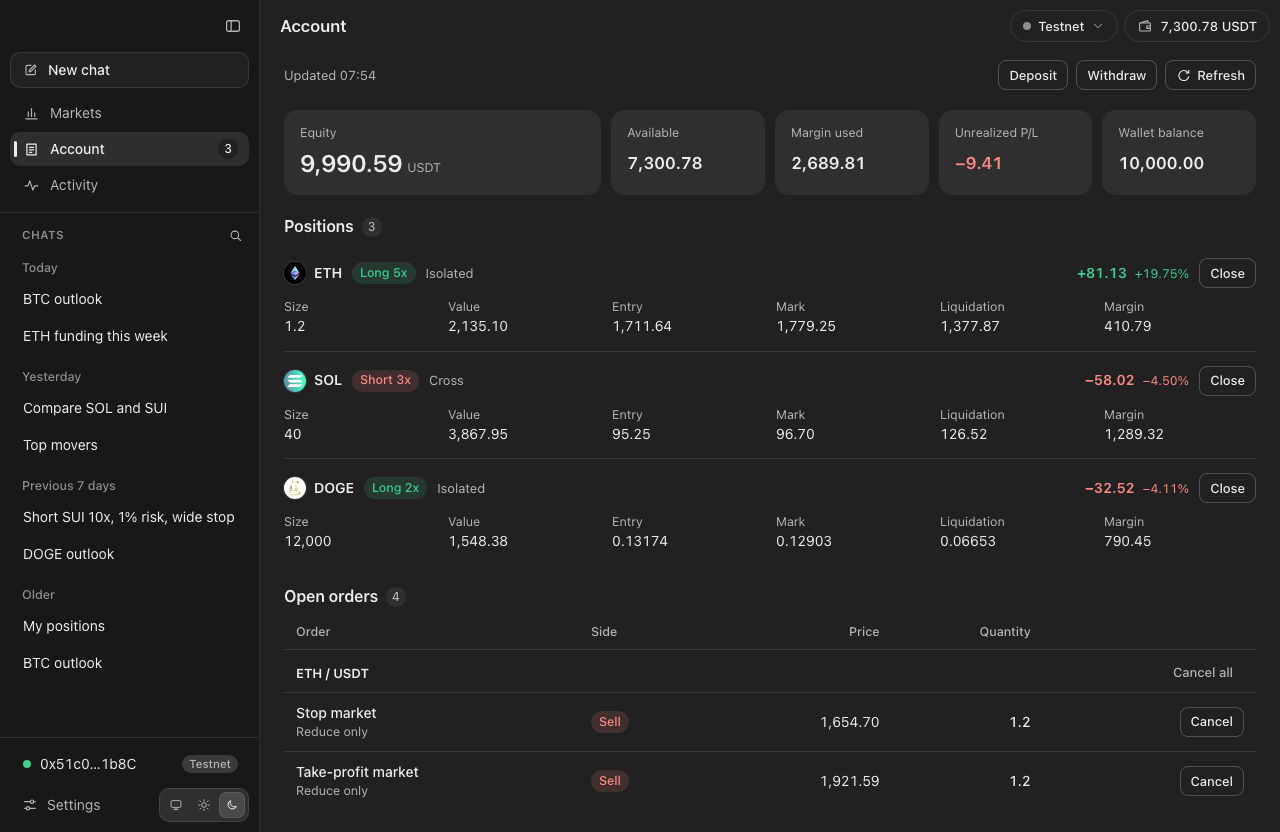
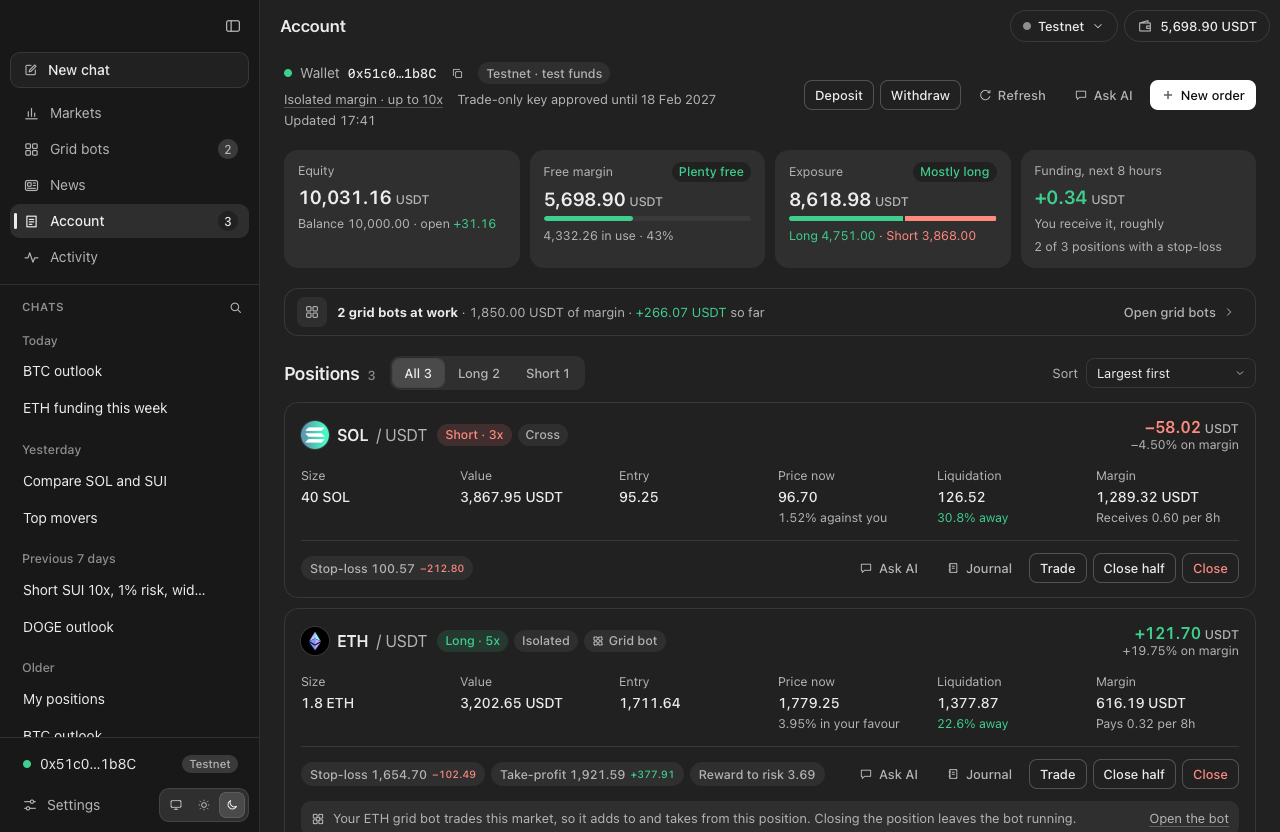
📝 docs: describe the redesigned Account and Activity
The README says how Account marks a grid bot's orders and asks before
cancelling them, and what Activity's timeline holds, with the Account
picture retaken against the built-in mock; the changelog lists both.

diff --git a/README.md b/README.md
@@ -11,7 +11,7 @@ OctoNeo is a desktop AI trading assistant for perpetual futures on a decentralis
 - **Market data in depth.** A screener of every market and a page for each one: a chart with moving averages, Bollinger bands and support and resistance, the order book and latest trades, funding history and open interest, and technical readings on four timeframes.
 - **The news, read for you.** Ask why a market is moving. The assistant reads the latest headlines from crypto newsrooms, Yahoo Finance and the Federal Reserve, says who reported what and how long ago, and lists the headlines with links. Ask about a share or a commodity the exchange lists and it reads the news filed under that ticker too. It works with every model, and needs no key.
 - **A news page.** The newest stories from the same newsrooms, laid out like a magazine with their pictures. Narrow it to your watchlist, to crypto or to the economy, or to one newsroom, and open a market from the story that names it. A story opens right inside the app.
-- **A trading journal.** Log each trade with its setup, a short checklist, your thesis and the lesson. See your win rate, your best setup and how often you kept to your rules, and ask the assistant to review it. **Account** reads like a portfolio: equity, free margin, exposure and funding carry at a glance.
+- **A trading journal.** Log each trade, or a grid bot once it stops, with its setup, a short checklist, your thesis and the lesson. See your win rate, your best setup and how often you kept to your rules, and ask the assistant to review it. **Account** shows your equity, free margin, exposure and funding at a glance, with your grid bots' orders marked beside your own.
 - **Grid bots.** Pick a price range and a grid bot buys low and sells high inside it, with orders waiting on both sides. Set one up on **Grid bots**, or ask the assistant to draft one for you to start.
 - **You stay in control.** The assistant can only draft: a ticket, or a grid bot. Nothing reaches the exchange until you confirm it, and the assistant may not draft for mainnet until you allow it. A grid bot you start keeps to the range and the size you gave it.
 - **Your wallet, your funds.** Your wallet approves a separate trade-only key for the app. The app never sees your wallet's key, and the key it holds cannot withdraw.
@@ -144,9 +144,9 @@ Type `/` in the message box, or press **Commands** under it, for what the assist
 - **Stop-loss and take-profit.** They are placed right after the entry as reduce-only orders that trigger on the mark price. A stop beyond the estimated liquidation price is refused, because liquidation would come first. If the exchange refuses one after the entry has filled, the ticket says so plainly.
 - **Closing.** Ask the assistant, or press **Close** on a position under **Account** or on the market's page. Either drafts a ticket for the whole position. Confirming it also cancels the reduce-only orders left on that position. One order never flips a long into a short.
 
-**Account** shows equity, positions with the exchange's liquidation prices, and open orders. It is read from the exchange again every 15 seconds while the window is in view. **Activity** lists what the app did on the exchange: each order and cancellation, step by step.
+**Account** shows equity, positions with the exchange's liquidation prices, and open orders, with a grid bot's orders marked as its own. Cancelling one of a bot's orders asks first, because a bot whose orders are all gone stops; you can stop the bot instead. It is read from the exchange again every 15 seconds while the window is in view. **Activity** lists what the app did on the exchange, by day: each order and cancellation step by step, deposits and withdrawals, and what each grid bot did.
 
-![Positions and their protective orders](docs/images/account-dark.png)
+![Account: the summary, the grid bots at work, and positions with their stop-loss and take-profit](docs/images/account-dark.png)
 
 [docs/exchange.md](docs/exchange.md) describes exactly what the app sends to the exchange and how it signs.
 

diff --git a/CHANGELOG.md b/CHANGELOG.md
@@ -4,6 +4,11 @@ Notable changes to OctoNeo. The format follows [Keep a Changelog](https://keepac
 
 ## Unreleased
 
+### Changed
+
+- **Account, redesigned.** Plain names (equity, free margin, exposure, funding over the next eight hours) and calmer cards. A position a grid bot trades says so and links to the bot. Open orders mark a bot's orders and filter by whose they are, and cancelling a bot's order, or every order in its market, asks first: you can cancel only your own, cancel them all, or stop the bot instead. A line under the summary shows your bots at work, and **Ask AI** fills `/portfolio` rather than sending anything.
+- **Activity, redesigned.** Two views. **What the app did** is a timeline by day of orders, tickets, deposits and withdrawals and grid bot events, filtered by kind and network, each opening to the steps behind it. **Journal** holds your entries with a plain form, filters, search and how each setup did. A stopped grid bot can be logged in the journal, and **Grid bot** is a setup of its own. **Review with AI** fills `/journal`.
+
 ## 0.9.0
 
 Grid bots, on their own page and in the chat, and commands in the message box for trading, research and analysis.
